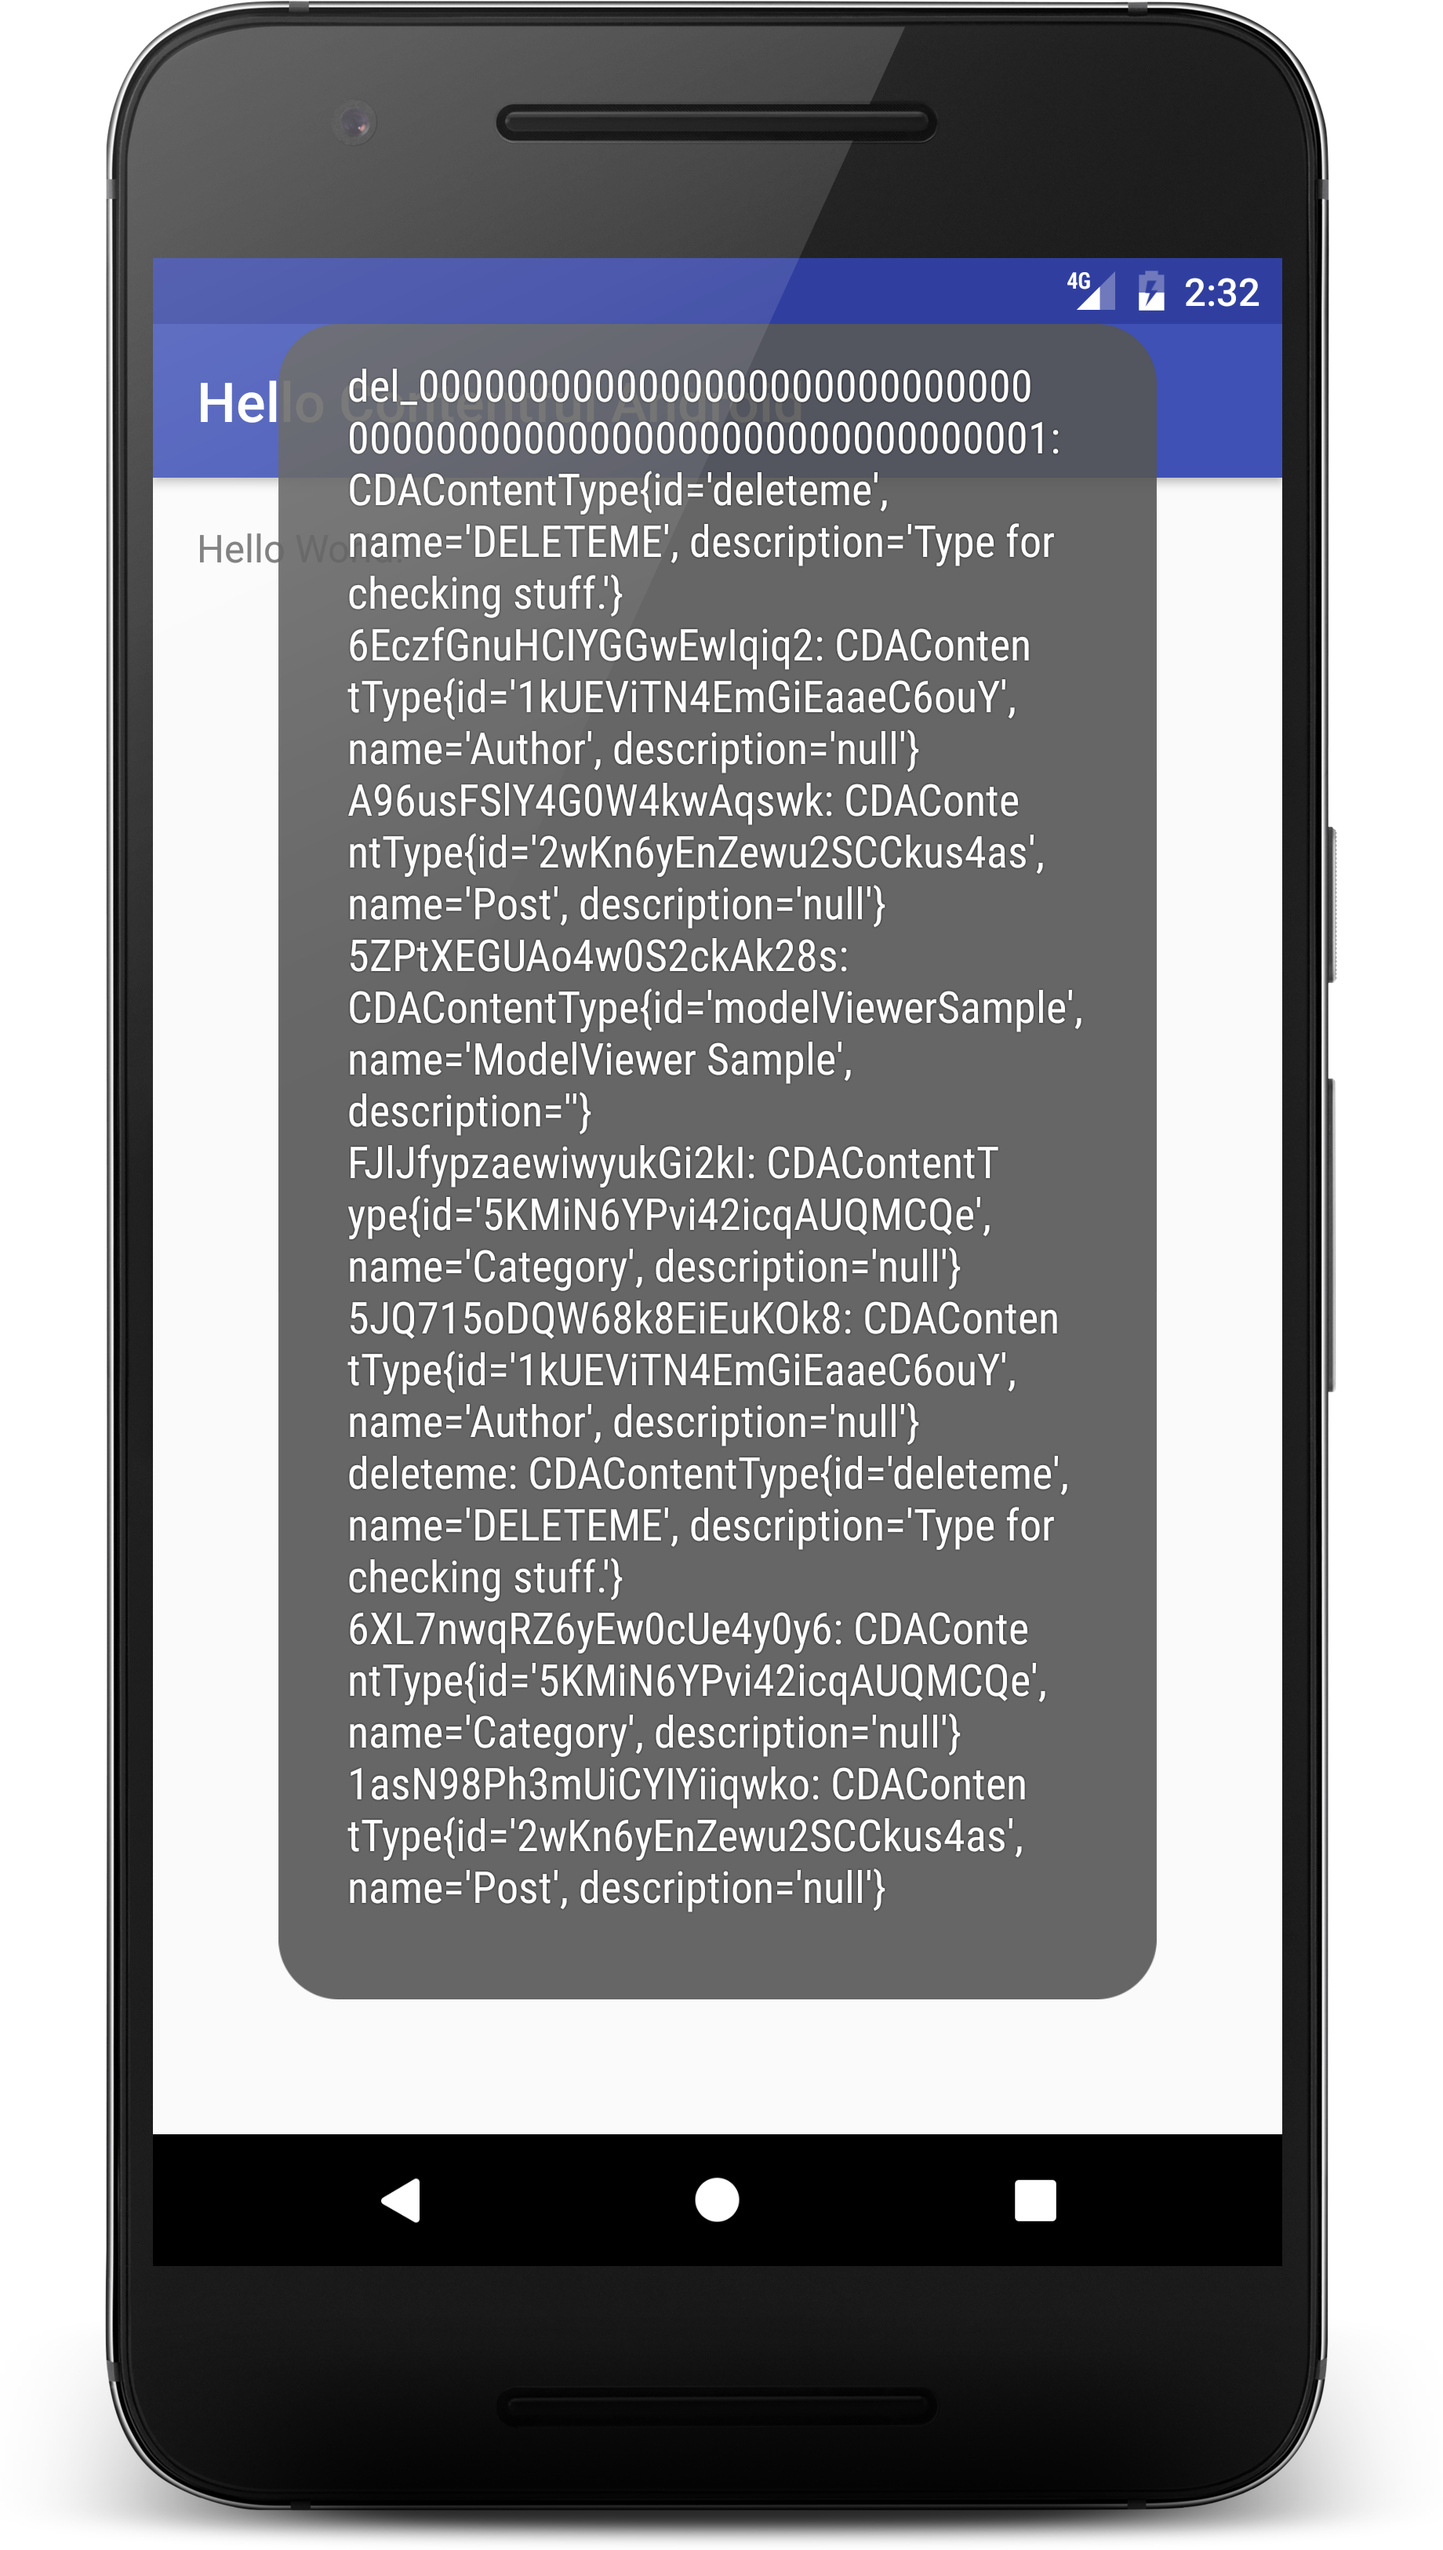
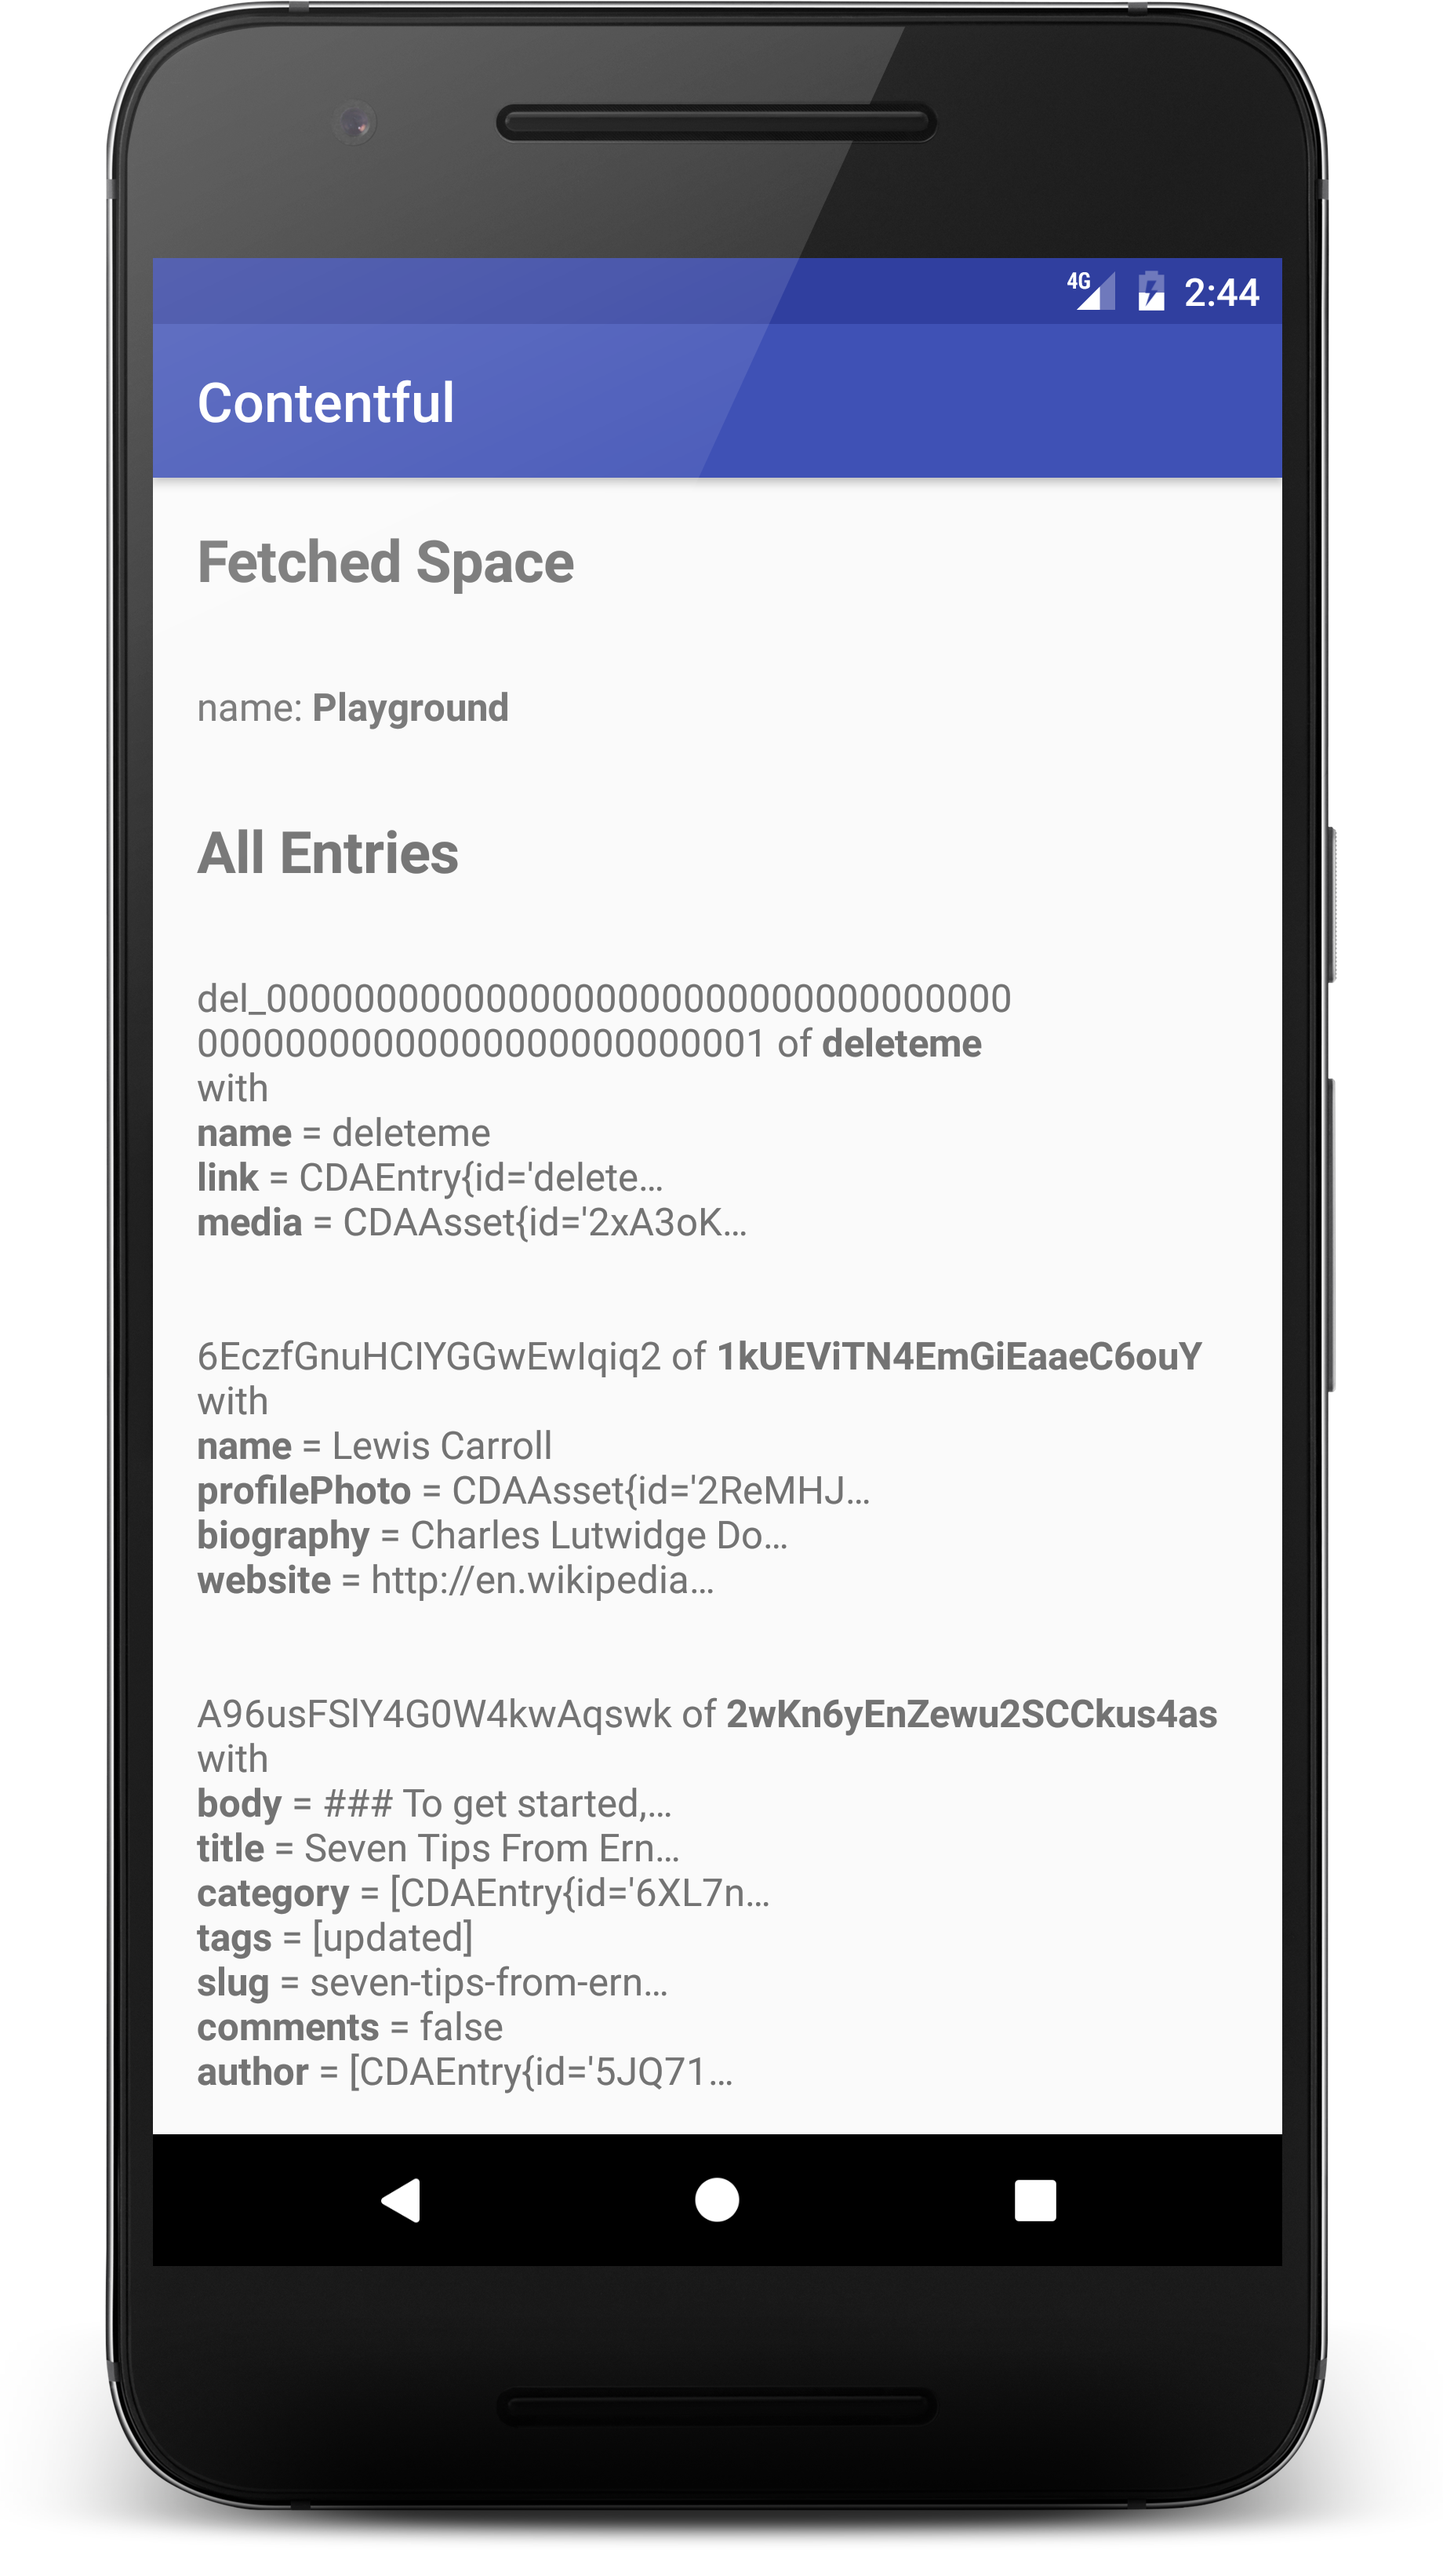
Minor updates
* Using `TextView` instead of `Toast`
* Using `logoutput` together with `ui`
* Updating Readme to reflect those changes

diff --git a/app/src/main/java/com/contentful/hello/android/MainActivity.java b/app/src/main/java/com/contentful/hello/android/MainActivity.java
@@ -2,13 +2,19 @@ package com.contentful.hello.android;
 
 import android.os.Bundle;
 import android.support.v7.app.AppCompatActivity;
-import android.widget.Toast;
+import android.text.Html;
+import android.util.Log;
+import android.widget.TextView;
 
 import com.contentful.java.cda.CDAArray;
 import com.contentful.java.cda.CDAClient;
 import com.contentful.java.cda.CDAEntry;
 import com.contentful.java.cda.CDAResource;
 import com.contentful.java.cda.CDASpace;
+
+import java.util.ArrayList;
+import java.util.Collections;
+import java.util.List;
 
 import rx.android.schedulers.AndroidSchedulers;
 import rx.functions.Action1;
@@ -68,6 +74,18 @@ public class MainActivity extends AppCompatActivity {
       .setSpace(SPACE_ID)
       .build();
 
+  /*
+   * This variable will store the view to put the result messages into.
+   */
+  private TextView messageView;
+
+  /*
+   * This private variable will be used for formatting the output. It will be set to
+   * an empty string to annotate, that it should not have a topmost border. As soon
+   * as something gets outputted, this limiter will be set to a border.
+   */
+  private String limiter = "";
+
   /**
    * Creates this activity.
    * <p>
@@ -79,6 +97,7 @@ public class MainActivity extends AppCompatActivity {
   protected void onCreate(Bundle savedInstanceState) {
     super.onCreate(savedInstanceState);
     setContentView(R.layout.activity_main);
+    messageView = (TextView) findViewById(R.id.main_messages);
   }
 
   /**
@@ -106,7 +125,7 @@ public class MainActivity extends AppCompatActivity {
              * general information of the space. Let us print the name we set in the WebApp of this space to
              * the command line.
              */
-            Toast.makeText(MainActivity.this, "Fetched space with name: " + space.name(), Toast.LENGTH_SHORT).show();
+            info("Fetched Space", Collections.singletonList("name: <b>" + space.name() + "</b>"));
           }
         });
 
@@ -126,19 +145,21 @@ public class MainActivity extends AppCompatActivity {
             /*
              * The following snipped will toast out the id and type of all entries requested.
              */
-            StringBuilder builder = new StringBuilder();
+            final List<String> entryDescriptions = new ArrayList<>();
             for (final CDAResource resource : entries.items()) {
               // We are sure that all resources returned are a CDAEntry, since we specified it in the fetch
               // so we can directly cast it to an entry.
               final CDAEntry entry = (CDAEntry) resource;
-              builder
-                  .append(entry.id())
-                  .append(": ")
-                  .append(entry.contentType())
-                  .append("\n");
+              entryDescriptions.add(entry.id() + " of <b>" + entry.contentType().id() + "</b> with ");
+
+              for (final String key : entry.rawFields().keySet()) {
+                entryDescriptions.add("<b>" + key + "</b> = " + ellipsize(entry.getField(key).toString()));
+              }
+              entryDescriptions.add("<br/>");
             }
 
-            Toast.makeText(MainActivity.this, builder.toString(), Toast.LENGTH_SHORT).show();
+            info("All Entries", entryDescriptions);
+            entryDescriptions.clear();
 
             /*
              * The last thing we want to show with this app, is how to filter all of entries in a space, so
@@ -158,11 +179,16 @@ public class MainActivity extends AppCompatActivity {
                 .subscribeOn(Schedulers.io())
                 .subscribe(new Action1<CDAArray>() {
                   @Override public void call(CDAArray entries) {
+                    final List<String> entryDescriptions = new ArrayList<>();
                     for (final CDAResource resource : entries.items()) {
                       final CDAEntry entry = (CDAEntry) resource;
-                      final String description = String.format("%s of %s", entry.id(), entry.getAttribute("contentType"));
-                      Toast.makeText(MainActivity.this, description, Toast.LENGTH_SHORT).show();
+                      entryDescriptions.add(String.format("%s of <b>%s</b>", entry.id(), entry.contentType().id()));
+
+                      for (final String key : entry.rawFields().keySet()) {
+                        entryDescriptions.add("<b>" + key + "</b>: " + entry.getField(key));
+                      }
                     }
+                    info("Filtered Entries", entryDescriptions);
                   }
                 });
           }
@@ -174,5 +200,34 @@ public class MainActivity extends AppCompatActivity {
      * documentation</a>}
      */
     super.onResume();
+  }
+
+  /**
+   * This internal method will be used to print out messages on the logger and on screen.
+   */
+  private void info(String title, List<String> descriptions) {
+    Log.d("HELLO CONTENTFUL", Html.fromHtml(title).toString() + ":" + Html.fromHtml(descriptions.toString()).toString());
+
+    messageView.append(Html.fromHtml(limiter));
+    limiter = "<br/><br/>";
+    messageView.append(Html.fromHtml("<h1>" + title + "</h1><br/>"));
+
+    for (final String description : descriptions) {
+      messageView.append(Html.fromHtml(description));
+      messageView.append(Html.fromHtml("<br/>"));
+    }
+  }
+
+  /**
+   * An internal method to reduce the size of the given text to a maximum. Every text longer
+   * will be cut, every text short will stay the same.
+   */
+  public static String ellipsize(String input) {
+    final int MAX = 20;
+    if (input.length() <= MAX) {
+      return input;
+    } else {
+      return input.substring(0, MAX - 1) + "…";
+    }
   }
 }

diff --git a/README.md b/README.md
@@ -13,9 +13,9 @@ Creating the Contentful SDK, requesting all entries from Contentful, filtering s
 If you want to download the source code, please hit the little clone button next to this repository, or clone it using the following command line:
 
 ```
-git clone git@github.com:contentful/contentful.java-hello-world
+git clone git@github.com:contentful/boilerplate-android
 ```
-Once you have downloaded it, please feel free to run it using
+Once you have downloaded it, please feel free to install it using
 
 ```
 ./gradlew installDebug
@@ -27,12 +27,12 @@ gradlew.bat installDebug
 ```
 on windows.
 
-This will install the app on a runninng emulator, or connected device. To execute the sample, look for the app called `Hello Contentful`, featuring this icon: 
+This will install the app on a running emulator, or connected device. To execute the sample, look for the app called `Contentful`, featuring this icon:
 
 <img src="https://github.com/contentful/boilerplate-android/blob/master/app/src/main/ic_launcher-web.png?raw=true" width="100"/>
 
 # End
 
-Thanks, that's it. Please feel free to experiement and leave any issues, as bugs, suggestions for spelling mistakes, etc. here at [this repository issue page](https://github.com/contentful/boilerplate-android/issues).
+Thanks, that's it. Please feel free to experiment and leave any issues, as bugs, suggestions for spelling mistakes, etc. here at [this repository issue page](https://github.com/contentful/boilerplate-android/issues).
 
 Be excellent to each other!
